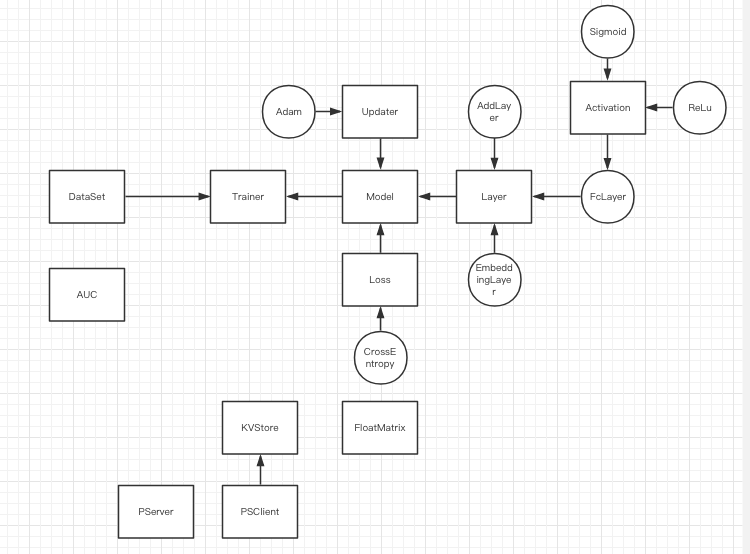
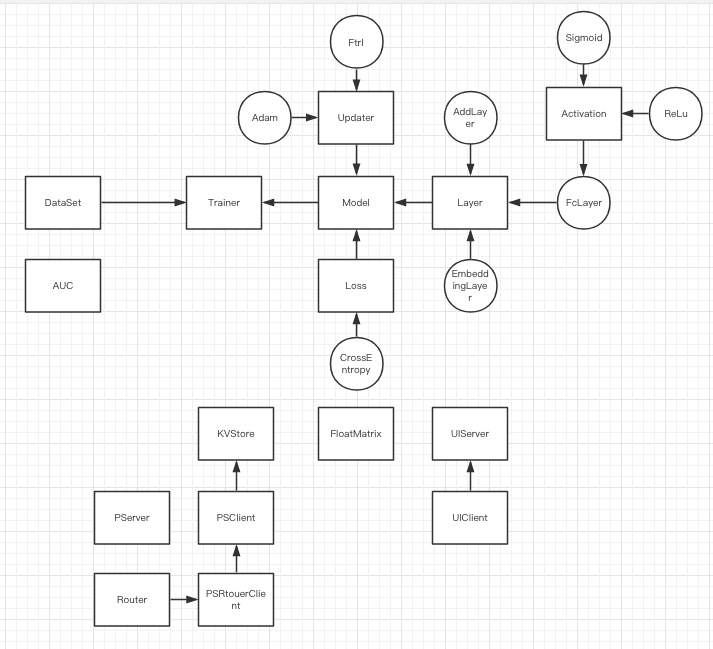
up

diff --git a/src/main/java/net/PServer.java b/src/main/java/net/PServer.java
@@ -163,9 +163,9 @@ public class PServer implements net.PSGrpc.PS, Runnable {
 
 	public void push(GradientMessage request, StreamObserver<GradientMessage> responseObserver) {
 		String key = request.getGradient().getKey();
-		if (!request.getGradient().getKey().contains("emF")) {
-			logger.info("update {}", key);
-		}
+//		if (!request.getGradient().getKey().contains("emF")) {
+//			logger.info("update {}", key);
+//		}
 		Updater updater = updaterMap.get(request.getUpdaterKey());
 		if (updater == null) {
 			logger.error("updater {} is null", request.getUpdaterKey());
@@ -173,7 +173,16 @@ public class PServer implements net.PSGrpc.PS, Runnable {
 			responseObserver.onCompleted();
 			return;
 		}
-
+		if (request.getIsAsync()) {
+			// 全异步更新参数
+			store.sum(key, MatrixUtil.ProtoMatrix_2_FloatMatrix(request.getGradient()));
+			store.update(updater, key);
+			GradientMessage.Builder resp = GradientMessage.newBuilder();
+			responseObserver.onNext(resp.build());
+			responseObserver.onCompleted();
+			return;
+		}
+		// 同步更新
 		store.sum(key, MatrixUtil.ProtoMatrix_2_FloatMatrix(request.getGradient()));
 		updateKeysLock.readLock().lock();
 		if (!updateKeys.containsKey(key)) {
@@ -206,33 +215,21 @@ public class PServer implements net.PSGrpc.PS, Runnable {
 
 	public void run() {
 		if (Context.isPsAsync) {
-			while (true) {
-				long step = globalStep.get();
-				long wStep = workerStep.get();
-				if (wStep > step + this.workerNum) {
-					psUpdate();
-				}
+			return;
+		}
+		while (true) {
+			synchronized (this) {
 				try {
-					Thread.sleep(100);
+					// 等待barrier的通知
+					logger.info("wait workers finish");
+					this.wait();
 				} catch (InterruptedException e) {
 					e.printStackTrace();
 				}
-			}
-		} else {
-			while (true) {
-				synchronized (this) {
-					try {
-						// 等待barrier的通知
-						logger.info("wait workers finish");
-						this.wait();
-					} catch (InterruptedException e) {
-						e.printStackTrace();
-					}
-					psUpdate();
-					synchronized (globalStep) {
-						// 通知所有barrier
-						globalStep.notifyAll();
-					}
+				psUpdate();
+				synchronized (globalStep) {
+					// 通知所有barrier
+					globalStep.notifyAll();
 				}
 			}
 		}
@@ -244,6 +241,7 @@ public class PServer implements net.PSGrpc.PS, Runnable {
 		logger.info("barrier step {} wStep {}", step, wStep);
 		if (Context.isPsAsync) {
 			// 不阻塞
+			globalStep.incrementAndGet();
 			responseObserver.onNext(BarrierMessage.newBuilder().setResp(success).build());
 			responseObserver.onCompleted();
 			return;

diff --git a/src/main/java/context/Context.java b/src/main/java/context/Context.java
@@ -2,6 +2,7 @@ package context;
 
 import java.net.InetAddress;
 import java.net.UnknownHostException;
+import java.util.concurrent.ThreadLocalRandom;
 import java.util.concurrent.atomic.AtomicLong;
 import java.util.function.Supplier;
 
@@ -51,6 +52,8 @@ public class Context {
 
 	public static String host;
 
+	public static int logRandom;
+
 	public static void init() {
 		if (inited) {
 			return;
@@ -62,6 +65,7 @@ public class Context {
 			mode = Mode.STANDALONE;
 		}
 		nTermDump = Integer.parseInt((System.getProperty("nTermDump", "20")));
+		logRandom = Integer.parseInt((System.getProperty("logRandom", "10")));
 		finish = false;
 		dump = false;
 		thread = Integer.parseInt(System.getProperty("thread", String.valueOf(Runtime.getRuntime().availableProcessors())));
@@ -93,5 +97,9 @@ public class Context {
 
 	public static boolean isStandalone() {
 		return mode.equals(Mode.STANDALONE);
+	}
+
+	public static boolean log_random() {
+		return (logRandom > ThreadLocalRandom.current().nextInt(999));
 	}
 }

diff --git a/src/main/java/Main.java b/src/main/java/Main.java
@@ -63,7 +63,7 @@ public class Main {
 			while (!Context.finish && !eof) {
 				List<Map<String, FloatMatrix>> dataList = Lists.newArrayList();
 				for (int i=0; i<Context.thread; i++) {
-					Pair<TestDataSet.MatrixData, Boolean> d = TestDataSet.fromStream(train, Integer.parseInt(System.getProperty("batch", "1000")));
+					Pair<TestDataSet.MatrixData, Boolean> d = TestDataSet.fromStream(train, Integer.parseInt(System.getProperty("batch", "2000")));
 					if (!d.getValue()) {
 						logger.info("data read eof");
 						eof = true;

diff --git a/src/main/java/layer/EmbeddingLayer.java b/src/main/java/layer/EmbeddingLayer.java
@@ -37,8 +37,9 @@ public class EmbeddingLayer extends Layer {
 			EmbeddingField layer = embeddingFields.get(i);
 
 			FloatMatrix embed = layer.forward(E.getRow(i).toArray());
-
-			UiClient.ins().plot(layer.getName()+".mean", embed.mean(), Context.step.get());
+			if (i<3) {
+				UiClient.ins().plot(layer.getName() + ".mean", embed.mean(), Context.step.get());
+			}
 			// 每个域embedding以后的结果合并到结果中
 			MatrixUtil.appendRows(i * embeddingFields.get(0).getOutputDims(), EX, embed);
 		}

diff --git a/src/test/java/TestPs.java b/src/test/java/TestPs.java
@@ -15,7 +15,7 @@ public class TestPs {
 		Context.isPsAsync = true;
 		Updater updater = new AdamUpdater(0.005, 0.9, 0.999, Math.pow(10, -8));
 		Updater ftrl = new FtrlUpdater(0.005f, 1f, 0.001f, 0.001f);
-		PServer server = new PServer(8890, 1);
+		PServer server = new PServer(8890, Context.workerNum);
 		server.getUpdaterMap().put(updater.getName(), updater);
 		server.getUpdaterMap().put(ftrl.getName(), ftrl);
 		server.start();

diff --git a/src/main/java/net/PSClient.java b/src/main/java/net/PSClient.java
@@ -156,6 +156,7 @@ public class PSClient {
 			Future<GradientMessage> future = stub.push(GradientMessage.newBuilder()
 					.setMeta(RequestMeta.newBuilder().setHost(Context.host).build())
 					.setUpdaterKey(updaterKey)
+					.setIsAsync(Context.isPsAsync)
 					.setGradient(MatrixUtil.FloatMatrix_2_ProtoMatrix(key, gradient)).build());
 			if (!async) {
 				GradientMessage result = future.get();

diff --git a/src/main/java/store/KVStore.java b/src/main/java/store/KVStore.java
@@ -192,7 +192,7 @@ public class KVStore implements Runnable {
 		}
 	}
 
-	public void update(Updater updater, String key) {
+	public synchronized void update(Updater updater, String key) {
 		FloatMatrix g = sum.get(key).divi(sumCnt.get(key).get());
 		if (key.contains("emF13.28305")) {
 			logger.info("key {} data {}  g {}", key, store.get(key).data, g);

diff --git a/README.md b/README.md
@@ -2,14 +2,17 @@
 
     本项目使用非常少的代码编写了深度学习训练的全过程，有完整的结构，通过面向对象的封装，在算法上有一定扩展性，不仅支持单机模式还支持分布式模式
 
-    使用java实现的dnn训练框架，底层矩阵库使用Jblas(https://github.com/mikiobraun/jblas)，参数服务器使用Grpc+protobuf
+    使用java实现的dnn训练框架，底层矩阵库使用Jblas(https://github.com/mikiobraun/jblas)，参数服务器使用Grpc+protobuf，ui方面使用ploty.js+nanohttpd
 
     支持单机多CPU
 
-    支持分布式
+    支持分布式，多worker，多ps自定义负载均衡
+    
+    支持同步更新和异步更新
 
     实现FNN模型和Wide And Deep模型
-
+    
+    UI Server可视化图表
 
 ## 架构
 
@@ -28,8 +31,11 @@
 
 ## 代码结构
 
-
 ![](./src/main/resources/code.png "代码结构")
+
+## 可视化
+
+![](./src/main/resources/ui.jpg "Loss变化")
 
 
 - __activations__
@@ -52,11 +58,19 @@
     
     - -DisPs 分布式模式下当前节点是否是参数服务器
     
+    - -DisAsync 分布式模式下是否异步更新
+    
     - -DworkerNum 分布式模式下worker数量
     
     - -DpsPort 参数服务器端口号
     
     - -DpsHost 参数服务器端host地址
+    
+    - -DpsAddrs 参数服务器集群，eg:localhost:2081,localhost:2082
+    
+    - -DuiPort 可视化服务器端口号
+        
+    - -DuiHost 可视化服务器host地址
 
 - __data__
 
@@ -112,6 +126,8 @@
 
     PSClient，访问参数服务器的客户端，主要API有三个
     
+    PSRouterClient，当PS为集群的时候使用，通过Router路由key
+    
     getList取参数，updateList更新参数，push推送梯度，barrier请求参数服务器是否继续下一轮训练
     
     PServer，参数服务器，实现PSClient的主要方法，将参数保存在KVStore内存中
@@ -130,15 +146,24 @@
 
 - __update__
 
-    更新参数，实现了固定学习率更新和Adam更新，其中Adam通过本地map存储历史值
+    更新参数，实现了固定学习率更新和Adam，Ftrl更新，其中Adam，Ftrl通过本地map存储历史状态
 
 - __util__
 
     MatrixUtil，现有矩阵库操作的扩容，以及proto中定义矩阵的互相转换
+    
+- __visual__
+
+    UIServer，一个http + grpc服务器，接收训练worker或者ps的打点数据
+    
+    UIClient，训练中的打点工具，主要使用plot方法，打点后自动在UI服务器上展示 
 
 - __resource/proto/ps.proto__
 
     因为网络使用的是GRPC + protobuf的方式，这个文件为参数服务器的接口定义
 
+- __resource/proto/ui.proto__
+
+    ui服务器接口定义
 
 
